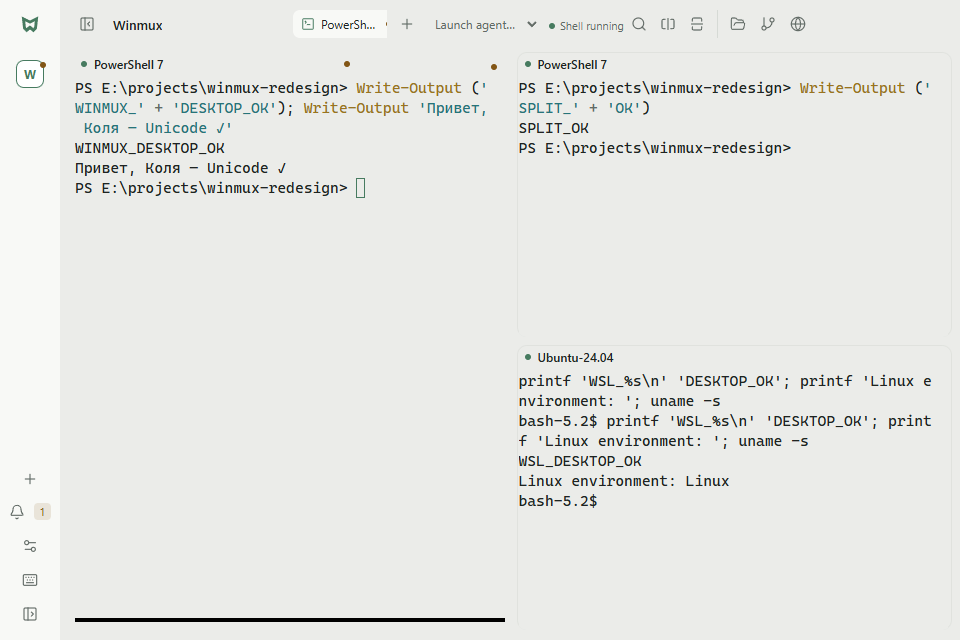
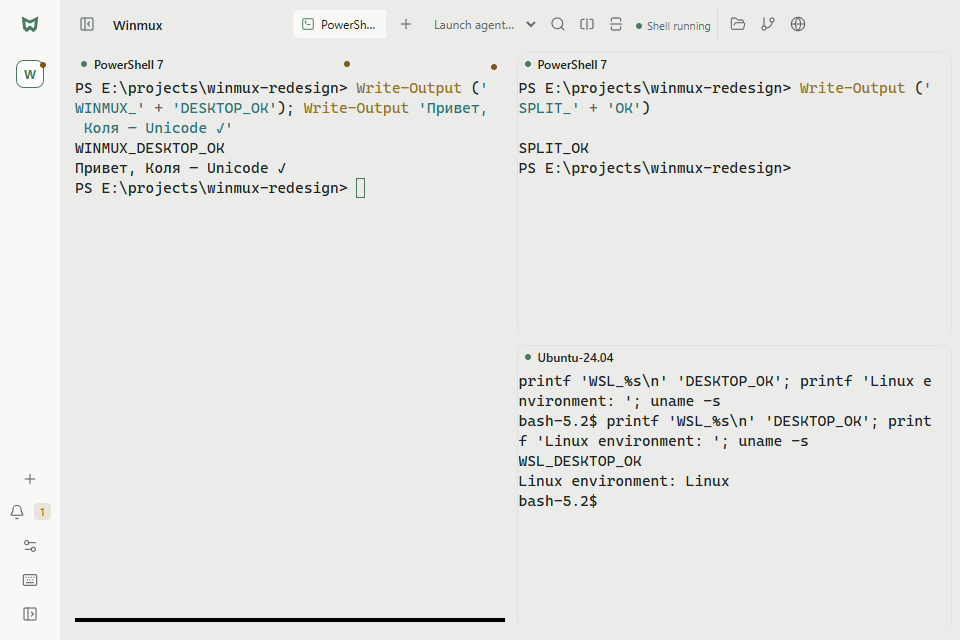
docs: refresh screenshots and final redesign verification

Changed region(s): [[0.5312, 0.1875, 0.8125, 0.2812], [0.5625, 0.0312, 0.75, 0.0625], [0.4375, 0.0312, 0.5312, 0.0625]]

diff --git a/docs/verification.md b/docs/verification.md
@@ -16,22 +16,19 @@ Verified on Windows 11 x64 with Node.js 24.12.0, Electron 45.3.2, PowerShell 7, 
 ## Windows 0.2.0 verification
 
 - `npm run build` passes for package version `0.2.0`.
-- `npm run test:desktop` passes against the implemented workspace UI. The current `.artifacts/desktop-report.json` records `status: passed`, 15 finding groups, and zero renderer errors. It records the 60-pixel rail expanding to 240 pixels, one header replacing the old tab band and status footer, real PowerShell/WSL output, split panes, same-PID reconnect, 1360×900 and 960×640 layouts, the 960-pixel header agent name, and the collapsed-rail agent-state marker. The 390-pixel stress capture is diagnostic; the supported minimum remains 900 pixels.
+- All local checks passed: backend, workspace, cwd-agent, profile, nine skills checks, cookies, six file-preview parser checks plus file-reader coverage, and five release-publishing checks. Build and Desktop also passed separately.
+- `npm run test:desktop` passes against the implemented workspace UI. `.artifacts/desktop-report.json` records `status: passed`, 15 finding groups, and zero renderer errors. It records the 60-pixel rail expanding to 240 pixels, one header replacing the old tab band and status footer, real PowerShell/WSL output, split panes, same-PID reconnect, 1360×900 and 960×640 layouts, the 960-pixel header agent name, and the collapsed-rail agent-state marker. The 390-pixel stress capture is diagnostic; the supported minimum remains 900 pixels.
 - The desktop run retains six themes, English/Russian controls, custom theme import/export, terminal preferences, independent terminal tabs and processes, directory-following Files/Git, embedded browser tabs and cookie scope, supported-agent hooks, and the internal file preview.
 - `node --test tests/release-workflow-regression.cjs` passes all five publishing-boundary checks: flattened artifact download, new-draft publication, existing-draft publication, malformed-asset rejection, and tag-mismatch rejection.
 - No new real-model inference or model-completion claim is made. The agent capture uses a deliberately local executable fixture.
 
-Issue #4 has independent Sol R1 PASS with no findings. The new-UI Sol R1 returned four confirmed findings: I3-R1-01 launcher drag, I3-R1-02 zero-width tabs at 960 pixels with the expanded rail, I3-R1-03 zoom restore hidden, and I3-R1-04 workspace-switcher outside click. Targeted repairs are in progress. The desktop report above predates those repairs, so this document does not claim a new-UI review pass.
[1 lines of base64/hex data omitted]
 
 ## Local file preview and packaged application
 
-The bounded, read-only local file preview has six link-parser tests and file-reader checks for Windows and Ubuntu. The recorded desktop run includes clicking an actual terminal image path, opening text and images through the real CLI, missing-file failure, Escape dismissal, and no extra BrowserWindow, with no renderer errors.
+The bounded, read-only local file preview passes six link-parser tests and file-reader checks for Windows and Ubuntu. The Desktop run includes clicking an actual terminal image path, opening text and images through the real CLI, missing-file failure, Escape dismissal, and no extra BrowserWindow, with no renderer errors.
 
-A local 0.2.0 packaged pre-repair probe is in progress. The package must be rebuilt from the final repaired source before its result is treated as 0.2.0 evidence. Previous packaged checks do not replace that fresh run. The fresh packaged probe must confirm ConPTY, terminal tabs, and the ASAR-packaged helper, while the CLI opens an image inside the app, returns metadata only, and reports a loaded image. This does not establish installer execution or published release availability.
-
-## Review closure
-
[1 lines of base64/hex data omitted]
+After the production build, `npx electron-builder --win nsis portable --x64 --publish never` completed successfully for 0.2.0. The local `node .artifacts/packaged-smoke.cjs` probe completed with `PACKAGED_SMOKE_OK` against the standalone executable. It exercised real ConPTY, terminal tabs, the ASAR hook helper, and the packaged CLI image path. The image opened in-app with metadata-only response data, no data URL in the response, and `naturalWidth > 0`. This verifies the packaged application but does not establish installer execution, signed-binary trust, or published release availability.
 
 ## Real CLI launch observation
 
@@ -39,7 +36,7 @@ Installed Windows Codex and Claude Code were launched through the new daemon wit
 
 ## Screenshots
 
-The six images in `docs/screenshots/` were inspected for private content. The five current 0.2.0 UI captures show the source before the four R1 repairs and will be refreshed after the final runtime pass. `workspace-dark.png` and `workspace-light.png` show the redesigned rail, unified header, status treatment, and split shells in both themes. `project-tools.png` shows the Files inspector beside the terminals. `terminal-tabs-agent.png` shows a local executable fixture reporting completed status, not a model conversation. `settings.png` shows the six themes, custom-theme actions, and language controls. `file-preview.png` remains the packaged v0.1.0 in-app preview capture and will be replaced only after a fresh packaged 0.2.0 probe is built from the repaired source.
+The six images in `docs/screenshots/` were inspected for private content and refreshed from final repaired-source runs. `workspace-dark.png` and `workspace-light.png` show the redesigned rail, unified header, status treatment, and split shells in both themes. `project-tools.png` shows the Files inspector beside the terminals. `terminal-tabs-agent.png` shows a local executable fixture reporting completed status, not a model conversation. `settings.png` shows the six themes, custom-theme actions, and language controls. `file-preview.png` shows the fresh packaged 0.2.0 application displaying Winmux's own logo through the in-app preview.
 
 ## Upgrade and remaining limits
 
